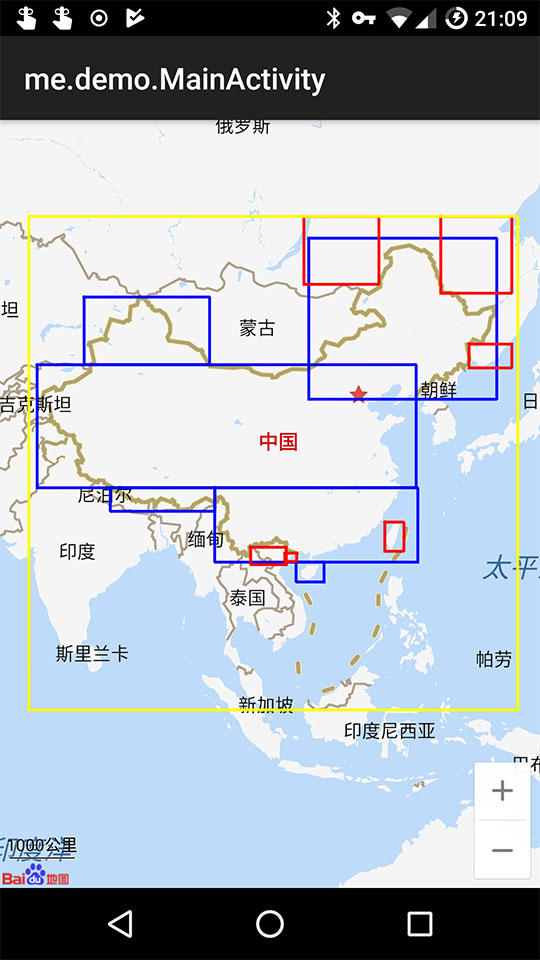
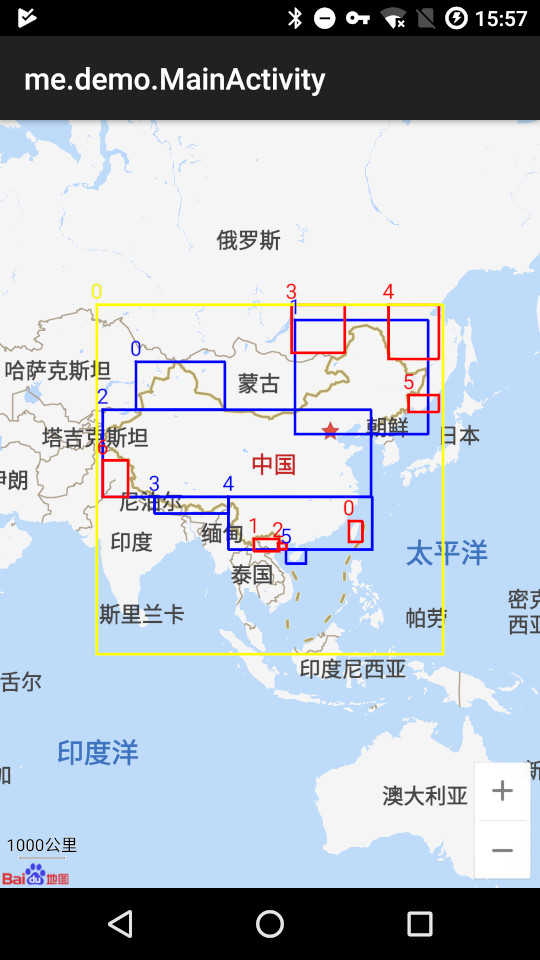
修改国内区域

diff --git a/src/main/java/me/demo/MainActivity.java b/src/main/java/me/demo/MainActivity.java
@@ -1,20 +1,33 @@
 package me.demo;
 
+import android.graphics.Bitmap;
+import android.graphics.Canvas;
+import android.graphics.Color;
+import android.os.Bundle;
+import android.support.annotation.NonNull;
+import android.support.annotation.Nullable;
+import android.support.v4.app.FragmentManager;
+import android.support.v7.app.AppCompatActivity;
+import android.util.Log;
+import android.widget.TextView;
+
 import com.baidu.mapapi.CoordType;
 import com.baidu.mapapi.SDKInitializer;
 import com.baidu.mapapi.map.BaiduMap;
 import com.baidu.mapapi.map.BaiduMapOptions;
+import com.baidu.mapapi.map.BitmapDescriptor;
+import com.baidu.mapapi.map.BitmapDescriptorFactory;
+import com.baidu.mapapi.map.InfoWindow;
+import com.baidu.mapapi.map.MapPoi;
 import com.baidu.mapapi.map.MapStatus;
+import com.baidu.mapapi.map.MapStatusUpdateFactory;
+import com.baidu.mapapi.map.MarkerOptions;
+import com.baidu.mapapi.map.Overlay;
 import com.baidu.mapapi.map.PolylineOptions;
 import com.baidu.mapapi.map.SupportMapFragment;
 import com.baidu.mapapi.model.LatLng;
+import com.baidu.mapapi.model.LatLngBounds;
 import com.github.ipcjs.coordtransform.CoordinateTransformUtil;
-
-import android.graphics.Color;
-import android.os.Bundle;
-import android.support.annotation.Nullable;
-import android.support.v4.app.FragmentManager;
-import android.support.v7.app.AppCompatActivity;
 
 import java.util.ArrayList;
 
@@ -29,10 +42,12 @@ public class MainActivity extends AppCompatActivity {
     };
 
     public static final String TAG_MAP = "map";
+    private static final String TAG = "MainActivity";
 
     private BaiduMap mBaiduMap;
 
     private SupportMapFragment mMapFragment;
+    private Overlay mDotMarker = null;
 
     @Override
     protected void onCreate(@Nullable Bundle savedInstanceState) {
@@ -59,10 +74,65 @@ public class MainActivity extends AppCompatActivity {
         drawRectangle(CoordinateTransformUtil.REGION, Color.BLUE); // 属于中国的范围
         drawRectangle(CoordinateTransformUtil.EXCLUDE, Color.RED); // 不属于中国的范围
         drawRectangle(RECTANGLES, Color.YELLOW); // 属于中国的范围
+
+        mBaiduMap.setOnMapLoadedCallback(() -> {
+            LatLngBounds.Builder boundBuilder = new LatLngBounds.Builder();
+            for (CoordinateTransformUtil.Rectangle rect : RECTANGLES) {
+                boundBuilder.include(new LatLng(rect.north, rect.west));
+                boundBuilder.include(new LatLng(rect.south, rect.east));
+            }
+            mBaiduMap.setMapStatus(MapStatusUpdateFactory.newLatLngBounds(boundBuilder.build()));
+        });
+
+        mBaiduMap.setOnMapClickListener(new BaiduMap.OnMapClickListener() {
+            @Override
+            public void onMapClick(LatLng latLng) {
+                if (mDotMarker != null) {
+                    mDotMarker.remove();
+                }
+                Log.i(TAG, "add dot on " + latLng.toString());
+                mDotMarker = mBaiduMap.addOverlay(new MarkerOptions()
+                        .position(latLng)
+                        .anchor(0.5f, 0.5f)
+                        .title(latLng.toString())
+                        .icon(createDotIcon())
+                );
+            }
+
+            @Override
+            public boolean onMapPoiClick(MapPoi mapPoi) {
+                return false;
+            }
+        });
+        mBaiduMap.setOnMarkerClickListener(marker -> {
+            if (marker.getTitle() != null) {
+                mBaiduMap.showInfoWindow(new InfoWindow(createTextIcon(marker.getTitle(), Color.BLACK), marker.getPosition(), 0, () -> {
+                    Log.i(TAG, "infoWindow clicked");
+                }));
+                return true;
+            }
+            return false;
+        });
+    }
+
+    @NonNull
+    private BitmapDescriptor createDotIcon() {
+        Bitmap dot = Bitmap.createBitmap(9, 9, Bitmap.Config.ARGB_8888);
+        Canvas c = new Canvas(dot);
+        c.drawColor(Color.RED);
+        return BitmapDescriptorFactory.fromBitmap(dot);
+    }
+
+    private BitmapDescriptor createTextIcon(CharSequence text, int textColor) {
+        TextView view = new TextView(this);
+        view.setText(text);
+        view.setTextColor(textColor);
+        return BitmapDescriptorFactory.fromView(view);
     }
 
     private void drawRectangle(CoordinateTransformUtil.Rectangle[] rectangles, int color) {
-        for (CoordinateTransformUtil.Rectangle r : rectangles) {
+        for (int i = 0, rectanglesLength = rectangles.length; i < rectanglesLength; i++) {
+            CoordinateTransformUtil.Rectangle r = rectangles[i];
             ArrayList<LatLng> points = new ArrayList<>();
             points.add(new LatLng(r.north, r.west));
             points.add(new LatLng(r.north, r.east));
@@ -70,6 +140,7 @@ public class MainActivity extends AppCompatActivity {
             points.add(new LatLng(r.south, r.west));
             points.add(points.get(0)); // 闭合 线
             mBaiduMap.addOverlay(new PolylineOptions().points(points).color(color));
+            mBaiduMap.addOverlay(new MarkerOptions().position(points.get(0)).icon(createTextIcon(String.valueOf(i), color)));
         }
     }
 }

diff --git a/library/src/main/java/com/github/ipcjs/coordtransform/CoordinateTransformUtil.java b/library/src/main/java/com/github/ipcjs/coordtransform/CoordinateTransformUtil.java
@@ -2,9 +2,8 @@ package com.github.ipcjs.coordtransform;
 
 /**
  * 百度坐标（BD09）、国测局坐标（火星坐标，GCJ02）、和WGS84坐标系之间的转换的工具
- *
+ * <p>
  * 参考<a href="https://github.com/wandergis/coordtransform">wandergis/coordtransform</a>实现的Java版本
- *
  * @author geosmart
  */
 public class CoordinateTransformUtil {
@@ -16,7 +15,7 @@ public class CoordinateTransformUtil {
             new Rectangle(73.124600, 42.889900, 124.143255, 29.529700),
             new Rectangle(82.968400, 29.529700, 97.035200, 26.718600),
             new Rectangle(97.025300, 29.529700, 124.367395, 20.414096),
-            new Rectangle(107.975793, 20.414096, 111.744104, 17.871542)
+            new Rectangle(107.975793, 20.414096, 111.744104, 17.871542),
     };
 
     //China excluded region - raw data
@@ -26,7 +25,8 @@ public class CoordinateTransformUtil {
             new Rectangle(106.452500, 21.542200, 108.051000, 20.487800),
             new Rectangle(109.032300, 55.817500, 119.127000, 50.325700),
             new Rectangle(127.456800, 55.817500, 137.022700, 49.557400),
-            new Rectangle(131.266200, 44.892200, 137.022700, 42.569200)
+            new Rectangle(131.266200, 44.892200, 137.022700, 42.569200),
+            new Rectangle(73.124600, 35.398637, 77.948114, 29.529700),
     };
 
     private static double X_PI = 3.14159265358979324 * 3000.0 / 180.0;
@@ -56,7 +56,6 @@ public class CoordinateTransformUtil {
 
     /**
      * WGS84转GCJ02(火星坐标系)
-     *
      * @param lng WGS84坐标系的经度
      * @param lat WGS84坐标系的纬度
      * @return 火星坐标数组
@@ -70,7 +69,6 @@ public class CoordinateTransformUtil {
 
     /**
      * GCJ02(火星坐标系)转WGS84
-     *
      * @param lng 火星坐标系的经度
      * @param lat 火星坐标系纬度
      * @return WGS84坐标数组
@@ -85,7 +83,6 @@ public class CoordinateTransformUtil {
 
     /**
      * 火星坐标系(GCJ-02)转百度坐标系(BD-09)
-     *
      * @param lng 火星坐标经度
      * @param lat 火星坐标纬度
      * @return 百度坐标数组
@@ -101,7 +98,6 @@ public class CoordinateTransformUtil {
 
     /**
      * 百度坐标系(BD-09)转火星坐标系(GCJ-02)
-     *
      * @param bd_lng 百度坐标纬度
      * @param bd_lat 百度坐标经度
      * @return 火星坐标数组
@@ -119,7 +115,6 @@ public class CoordinateTransformUtil {
 
     /**
      * WGS坐标转百度坐标系(BD-09)
-     *
      * @param lng WGS84坐标系的经度
      * @param lat WGS84坐标系的纬度
      * @return 百度坐标数组
@@ -132,7 +127,6 @@ public class CoordinateTransformUtil {
 
     /**
      * 百度坐标系(BD-09)转WGS坐标
-     *
      * @param lng 百度坐标纬度
      * @param lat 百度坐标经度
      * @return WGS84坐标数组
